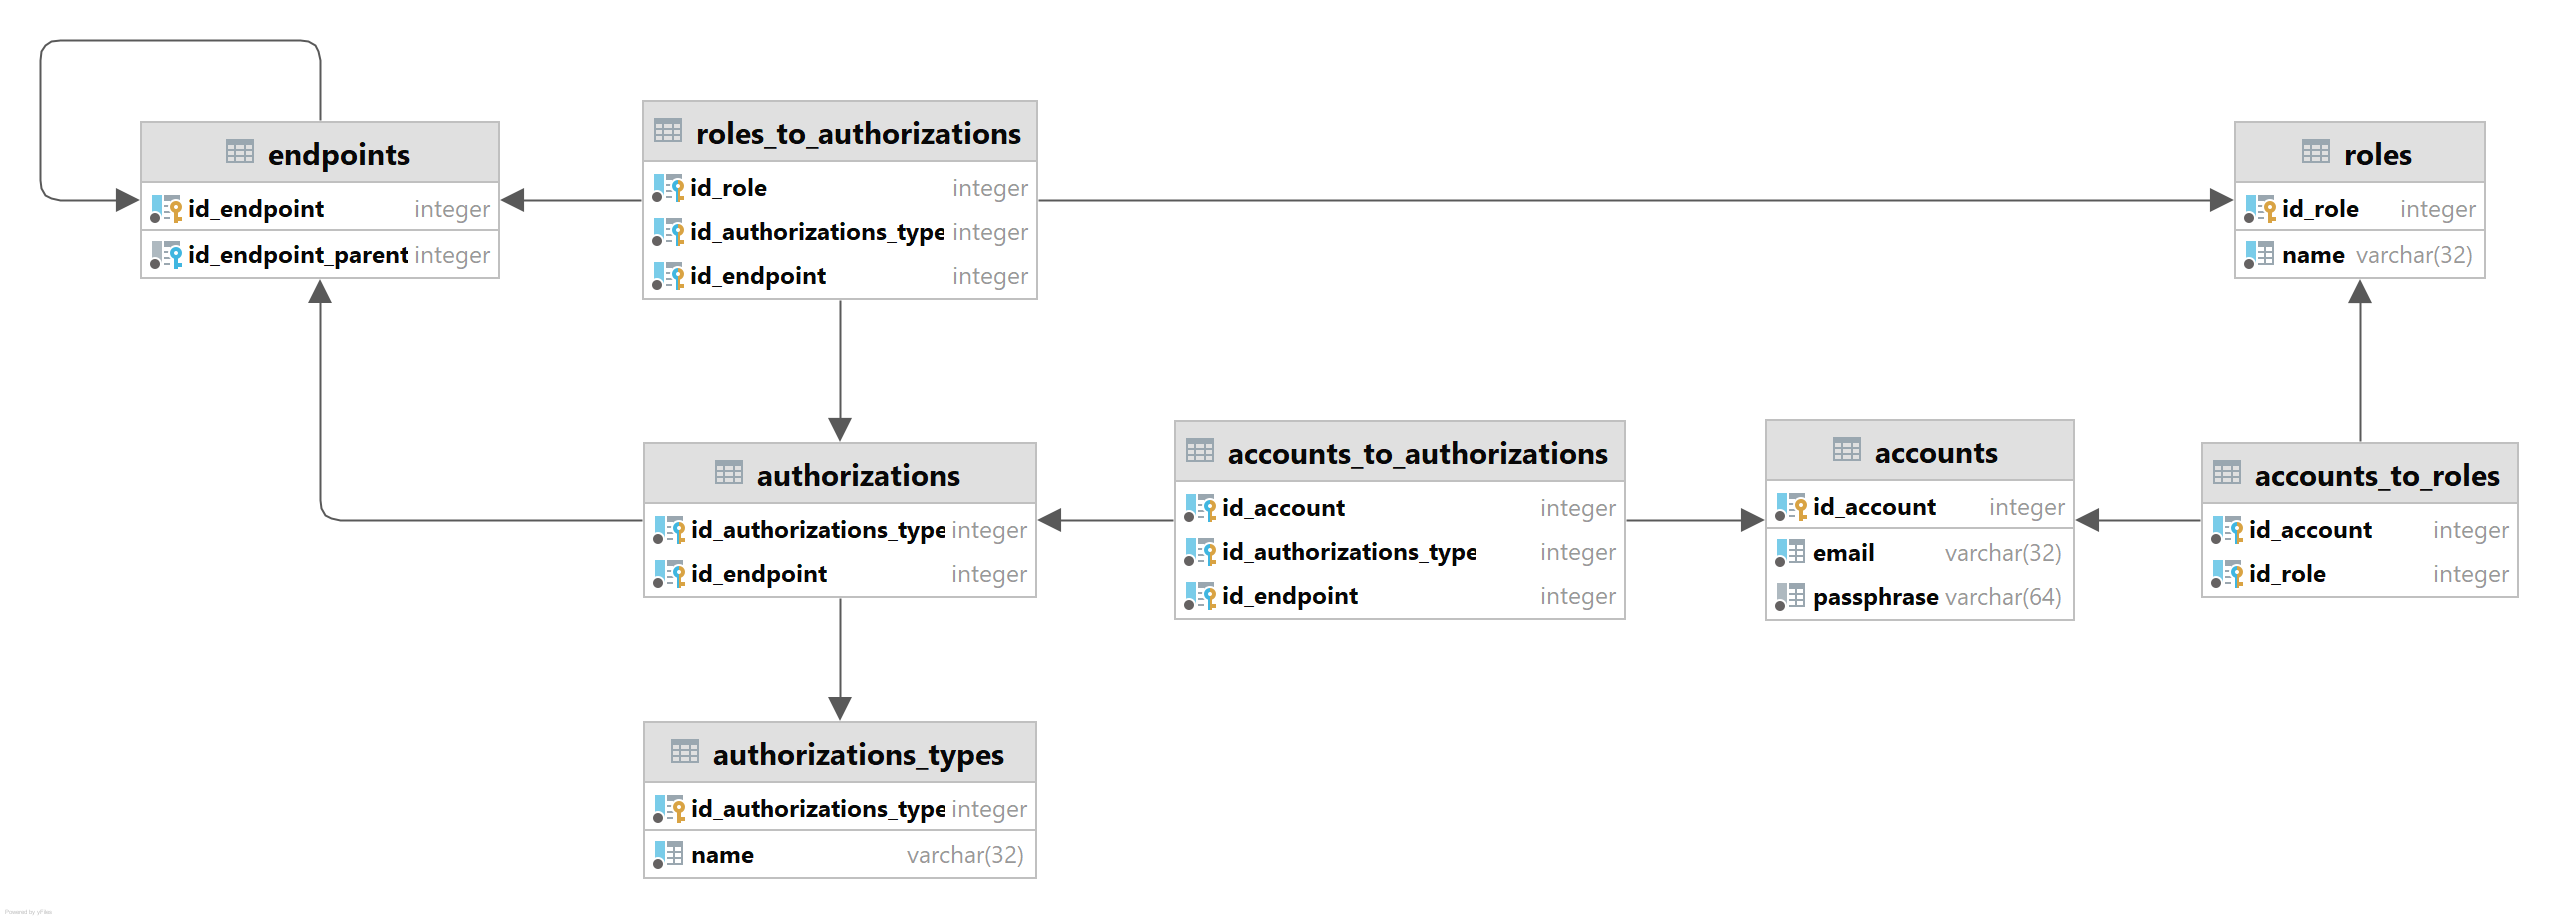
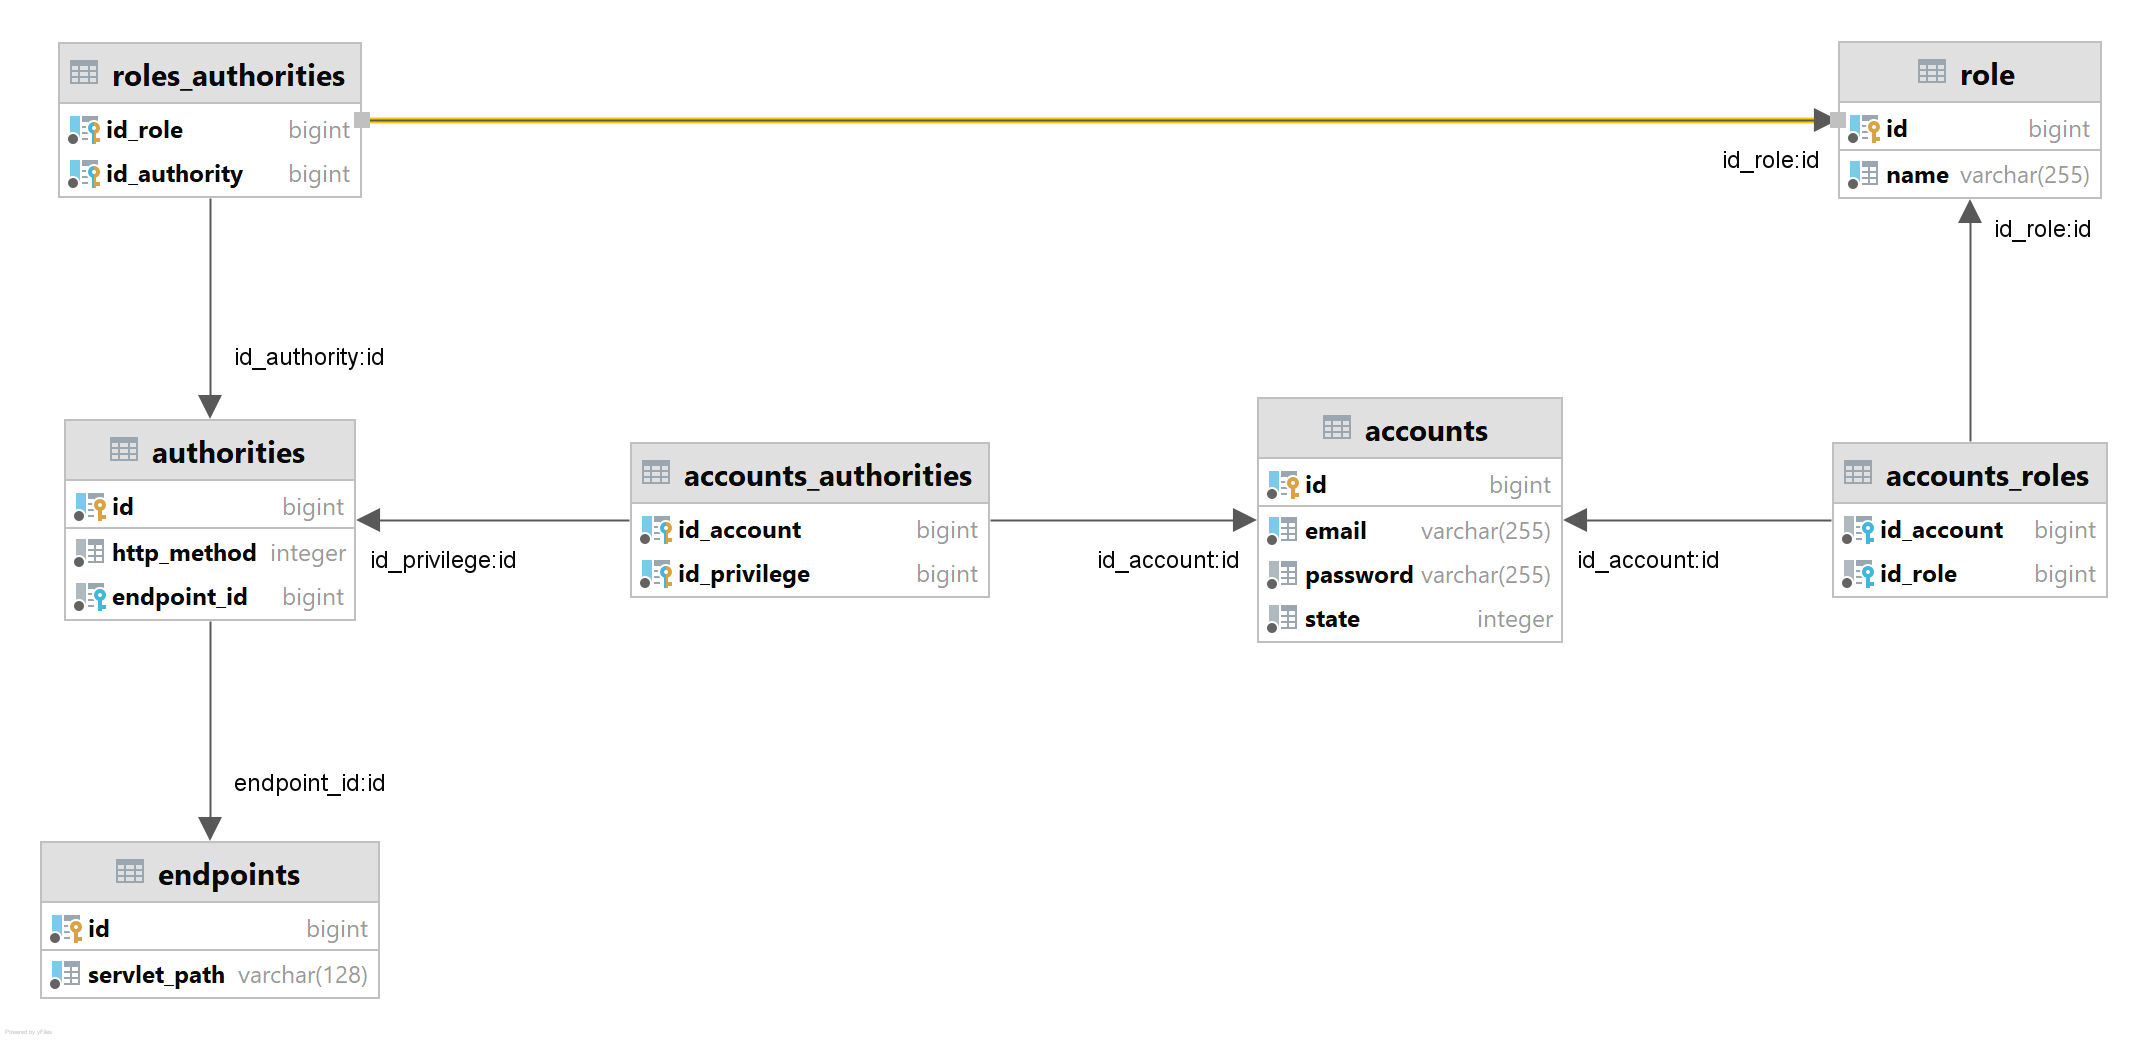
chore: interdependency works now.

diff --git a/README.md b/README.md
@@ -1,8 +1,10 @@
-# Getting Started
+# LibSecurity
 
-### Reference Documentation
+## ERD
 
-For further reference, please consider the following sections:
+![](.readme/erd.png)
+
+## Reference Documentations
 
 * [Official Apache Maven documentation](https://maven.apache.org/guides/index.html)
 * [Spring Boot Maven Plugin Reference Guide](https://docs.spring.io/spring-boot/docs/2.5.4/maven-plugin/reference/html/)
@@ -10,10 +12,5 @@ For further reference, please consider the following sections:
 * [Spring Boot DevTools](https://docs.spring.io/spring-boot/docs/2.5.4/reference/htmlsingle/#using-boot-devtools)
 * [Spring Data JPA](https://docs.spring.io/spring-boot/docs/2.5.4/reference/htmlsingle/#boot-features-jpa-and-spring-data)
 * [Spring Configuration Processor](https://docs.spring.io/spring-boot/docs/2.5.4/reference/htmlsingle/#configuration-metadata-annotation-processor)
-
-### Guides
-
-The following guides illustrate how to use some features concretely:
-
 * [Accessing Data with JPA](https://spring.io/guides/gs/accessing-data-jpa/)
 
